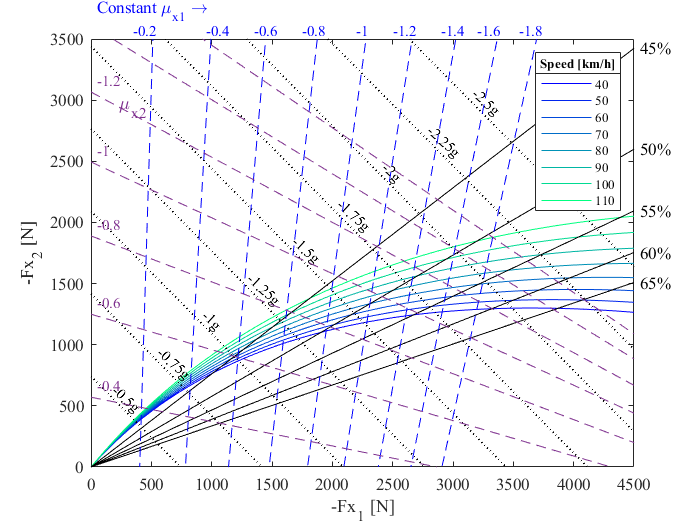
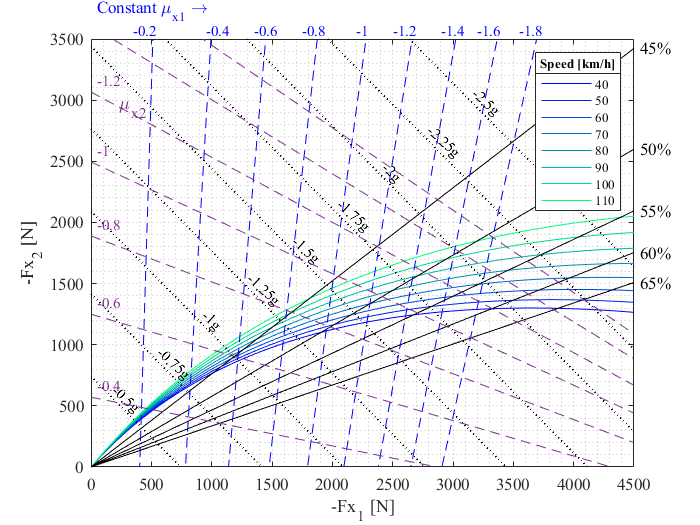
Formatting

diff --git a/Brake_load_repartition/ideal_braking.m b/Brake_load_repartition/ideal_braking.m
@@ -207,4 +207,4 @@ text(230,ymax(2)-550,'\mu_x_2','Rotation',0,'FontSize',11,'FontName','Times','Co
 %% Final formatting
 leg1=legend(f(1:length(v)),'40 ','50','60','70','80','90','100','110','Location','northeast','FontSize',8);
 title1 = get(leg1,'Title'); set(title1,'String',{'Speed [km/h]'});
-
+grid minor

diff --git a/README.md b/README.md
@@ -9,7 +9,7 @@ There are two sets of scripts:
 Study the temperature rise of a brake disc during a single stop and during continuous operation, simulating "N" identical braking maneuvers. There is also an estimation of the brake discs convection coefficient in terms of the vehicle speed, which could be useful to get a rough initial idea of its trend.
 
 ### Single-stop temperature rise
-![Single_stop_disc_temperature_rise](https://user-images.githubusercontent.com/53271940/116224818-60040d80-a751-11eb-8a0d-7fddd7d1ae09.png)
+![Single_stop_disc_temperature_rise](https://github.com/luisdamed/Braking_systems/blob/main/Brake_rotor_convection/Single_stop_disc_temperature_rise.png?raw=true)
 
 
 ### Simulated temperature during continuous braking
@@ -19,7 +19,7 @@ Study the temperature rise of a brake disc during a single stop and during conti
 
 
 ## Brake load repartition study
-Evaluate the distribution of braking forces in the front and rear axle in ideal conditions, and compare with the system response, based on the vehicle data (mass, geometry, hydraulic system components)
+Evaluate the distribution of braking forces in the front and rear axle in ideal conditions, and compare with the system response, based on the vehicle data (mass, geometry, hydraulic system components).
 
 ### Ideal brake force repartition
-![Ideal_braking_force_repartition](https://user-images.githubusercontent.com/53271940/116224623-2501da00-a751-11eb-8694-4b43d36d0cd6.png)
+![Ideal_braking_force_repartition](https://github.com/luisdamed/Braking_systems/blob/main/Brake_load_repartition/Ideal_braking_force_repartition.png?raw=true)
